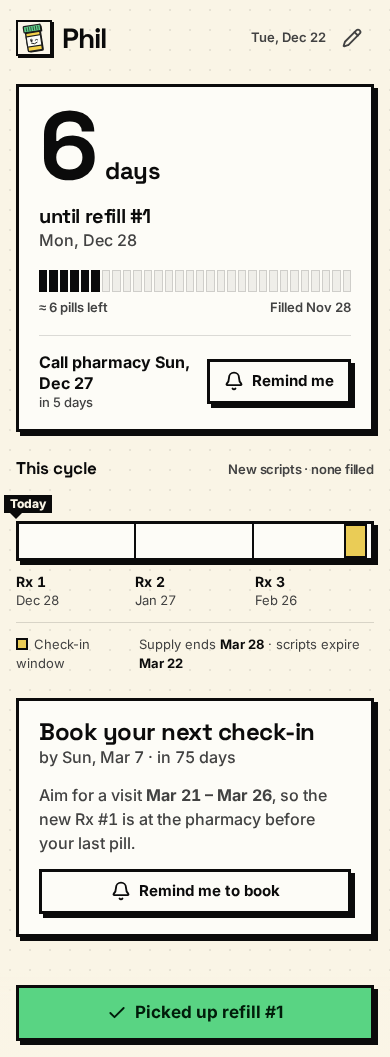
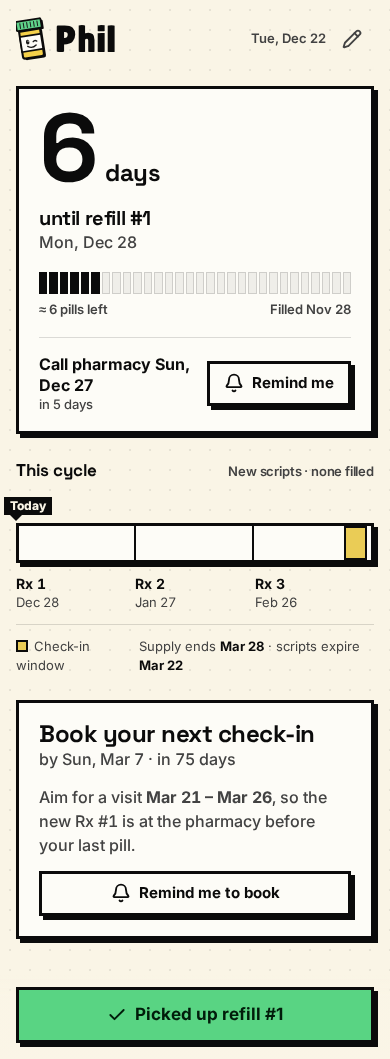
Wordmark: Lilita One beside a frameless, theme-aware bottle mark; mark on first-run too

diff --git a/index.html b/index.html
@@ -15,11 +15,13 @@
 <link rel="apple-touch-icon" href="apple-touch-icon.png">
 <link rel="preload" href="fonts/inter.woff2" as="font" type="font/woff2" crossorigin>
 <link rel="preload" href="fonts/space-grotesk-700.woff2" as="font" type="font/woff2" crossorigin>
+<link rel="preload" href="fonts/lilita-one.woff2" as="font" type="font/woff2" crossorigin>
 <style>
 /* Visual language is Cartus's (../cartus/docs/DESIGN.md): every control is a block
    with a visible edge and a hard shadow; color means something or isn't used.
    green = confirm/done · yellow = needs attention · danger = destructive. */
 @font-face { font-family: 'Inter Variable'; src: url(fonts/inter.woff2) format('woff2'); font-weight: 100 900; font-display: swap; }
+@font-face { font-family: 'Lilita One'; src: url(fonts/lilita-one.woff2) format('woff2'); font-display: swap; }
 @font-face { font-family: 'Space Grotesk'; src: url(fonts/space-grotesk-700.woff2) format('woff2'); font-weight: 700; font-display: swap; }
 
 :root {
@@ -96,10 +98,13 @@ main {
   gap: 24px;
 }
 header { display: flex; align-items: center; justify-content: space-between; min-height: 44px; }
-header h1 { font-size: 1.75rem; letter-spacing: -0.03em; line-height: 1; }
-.brand { display: flex; align-items: center; gap: 10px; }
-/* the home-screen icon in miniature, as a block: cream tile keeps it legible in dark mode */
-.mark { display: block; background: oklch(97% 0.02 90); border: 2px solid var(--border); box-shadow: 2px 2px 0 var(--shadow); }
+/* the wordmark: Lilita One's rounded weight matches the cartoon bottle beside it */
+.brand h1 { font: 400 2.375rem/1 'Lilita One', var(--heading); letter-spacing: 0; }
+.brand { display: flex; align-items: center; gap: 6px; }
+/* the home-screen icon in miniature; outline and shadow follow the theme tokens so it holds up in dark mode */
+.brand svg { display: block; height: 46px; width: auto; flex: none; }
+.intro .brand svg { height: 78px; }
+.intro .brand h1 { font-size: 3.75rem; }
 header p { font-size: 0.8125rem; font-weight: 600; color: var(--ink-muted); }
 
 .card {
@@ -261,7 +266,6 @@ code { font: 600 0.875em ui-monospace, Menlo, monospace; background: var(--surfa
 .note { font-size: 0.8125rem; color: var(--ink-muted); line-height: 1.45; }
 
 .intro { display: grid; gap: 8px; padding: 12px 0 4px; }
-.intro h1 { font-size: 3rem; letter-spacing: -0.04em; line-height: 0.95; }
 .intro p { color: var(--ink-muted); font-size: 1.0625rem; max-width: 32ch; }
 
 .toast {
@@ -328,6 +332,12 @@ const icon = {
   cal: '<path d="M8 2v4M16 2v4"/><rect width="18" height="18" x="3" y="4" rx="2"/><path d="M3 10h18"/><path d="m9 16 2 2 4-4"/>',
   alert: '<path d="m21.73 18-8-14a2 2 0 0 0-3.48 0l-8 14A2 2 0 0 0 4 21h16a2 2 0 0 0 1.73-3"/><path d="M12 9v4M12 17h.01"/>',
 };
+const MARK = `<svg xmlns="http://www.w3.org/2000/svg" viewBox="104 32 324 452" aria-hidden="true"><g transform="translate(256 256) scale(1) translate(-256 -256) translate(-6 0) rotate(-9 256 256)"><rect x="170" y="168" width="208" height="290" rx="22" fill="var(--shadow)"/>
+      <rect x="152" y="150" width="208" height="290" rx="22" fill="#f5d14a" stroke="var(--border)" stroke-width="20"/>
+      <rect x="152" y="222" width="208" height="150" fill="#fdfcf7" stroke="var(--border)" stroke-width="16"/><ellipse cx="220" cy="284" rx="17" ry="23" fill="#1b1b1b"/><circle cx="226" cy="275" r="6" fill="#fdfcf7"/><path d="M274 288Q292 270 310 288" fill="none" stroke="#1b1b1b" stroke-width="13" stroke-linecap="round"/><path d="M214 324Q256 356 298 324" fill="none" stroke="#1b1b1b" stroke-width="13" stroke-linecap="round"/><g transform="">
+      <rect x="150" y="88" width="248" height="92" rx="12" fill="var(--shadow)"/>
+      <rect x="132" y="70" width="248" height="92" rx="12" fill="#5fd38a" stroke="var(--border)" stroke-width="18"/>
+      <g stroke="#1b1b1b" stroke-width="10" stroke-linecap="round"><path d="M172 92V140"/><path d="M206 92V140"/><path d="M240 92V140"/><path d="M274 92V140"/><path d="M308 92V140"/><path d="M342 92V140"/></g></g></g></svg>`;
 const svg = k => `<svg class="i" viewBox="0 0 24 24" aria-hidden="true">${icon[k]}</svg>`;
 
 // ---------- reminders (via the "Phil Reminder" shortcut) ----------
@@ -433,13 +443,13 @@ function render() {
 function renderIntro() {
   document.querySelector('.dock')?.remove();
   app.innerHTML = `
-    <div class="intro"><h1>Phil</h1><p>Refills, counted down. Check-ins, never missed. Start with where you are now.</p></div>
+    <div class="intro"><div class="brand">${MARK}<h1>Phil</h1></div><p>Refills, counted down. Check-ins, never missed. Start with where you are now.</p></div>
     <form class="card" id="first" style="padding:20px">${formHTML({ ...state, checkIn: state.checkIn || today(), lastFill: state.lastFill || today() }, 'Start tracking')}</form>`;
   bindForm(document.getElementById('first'));
 }
 
 function header(t) {
-  return `<header><div class="brand"><img class="mark" src="mark.svg" alt="" width="36" height="36"><h1>Phil</h1></div>
+  return `<header><div class="brand">${MARK}<h1>Phil</h1></div>
     <div style="display:flex;align-items:center;gap:4px"><p>${long(toDay(t))}</p>
     <button class="icon" id="edit-btn" aria-label="Edit dates">${svg('edit')}</button></div></header>`;
 }

diff --git a/sw.js b/sw.js
@@ -1,6 +1,6 @@
 // Network-first so updates always land; cache is only the offline fallback.
-const CACHE = 'phil-v2';
-const SHELL = ['./', 'index.html', 'logic.js', 'manifest.webmanifest', 'fonts/inter.woff2', 'fonts/space-grotesk-700.woff2', 'apple-touch-icon.png', 'mark.svg'];
+const CACHE = 'phil-v3';
+const SHELL = ['./', 'index.html', 'logic.js', 'manifest.webmanifest', 'fonts/inter.woff2', 'fonts/space-grotesk-700.woff2', 'apple-touch-icon.png', 'fonts/lilita-one.woff2'];
 
 self.addEventListener('install', e => { e.waitUntil(caches.open(CACHE).then(c => c.addAll(SHELL))); self.skipWaiting(); });
 self.addEventListener('activate', e => e.waitUntil(clients.claim()));
